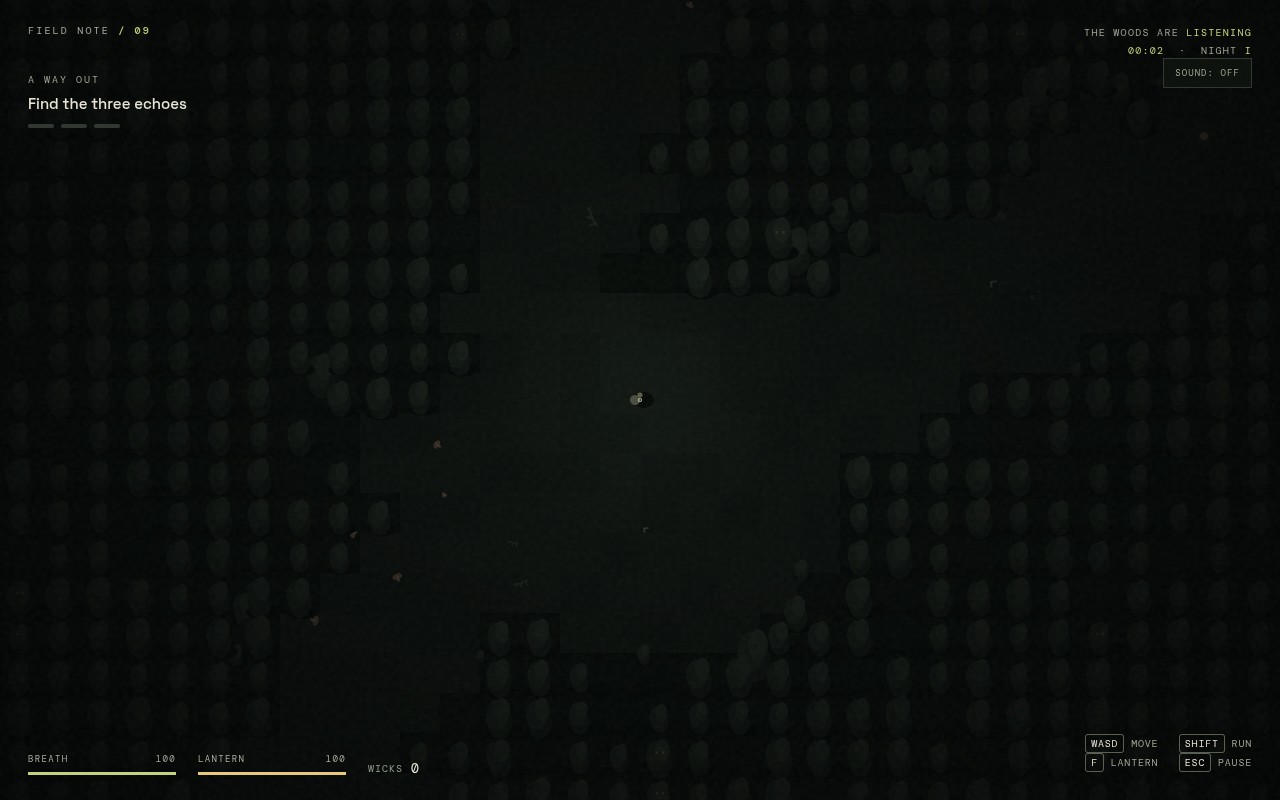
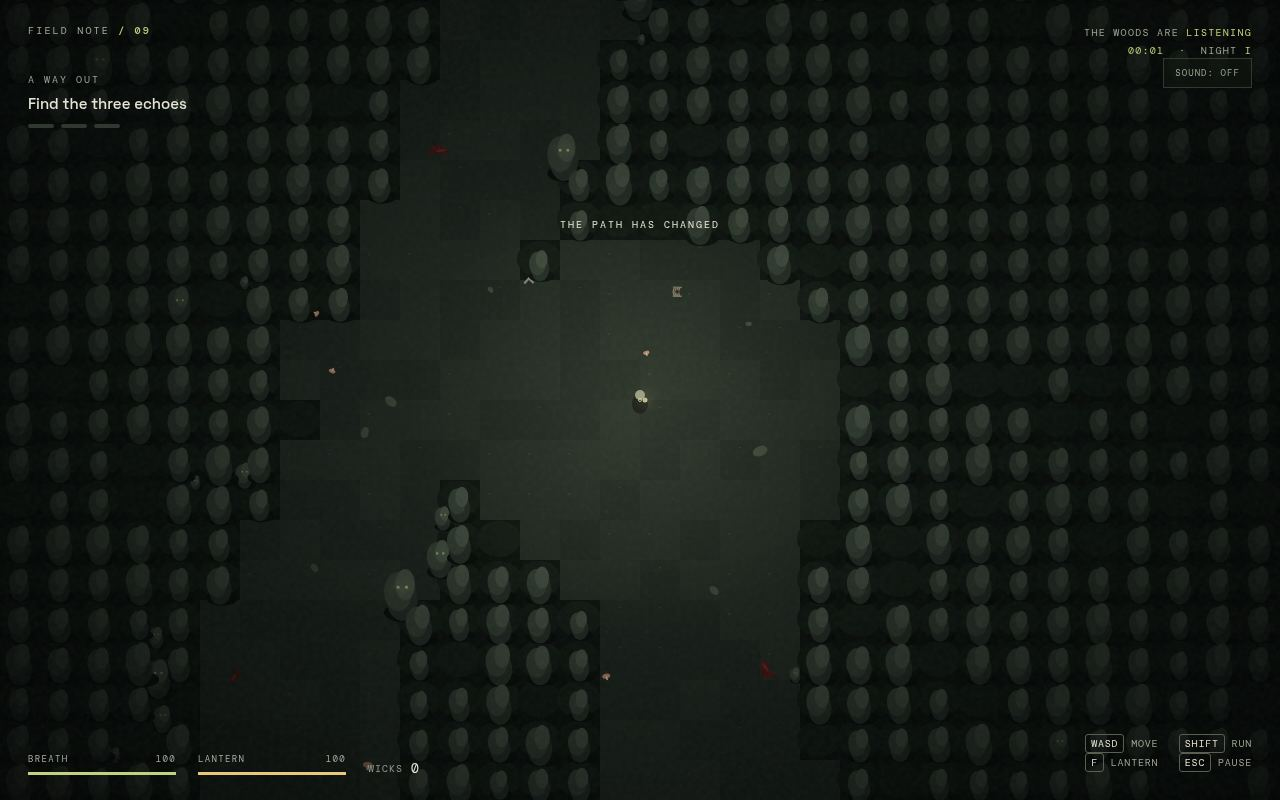
Publish static build for issue #128
Run: 43301707480
Attempt: 1
Generation: 5
Source: 97bf56521b8ea9435b465385cdbbfda4bbc50e95

diff --git a/index.html b/index.html
@@ -18,13 +18,13 @@
 (()=>{'use strict';
 const canvas=document.getElementById('game'),ctx=canvas.getContext('2d');const $=s=>document.querySelector(s);
 const ui={overlay:$('#overlay'),card:$('#card'),start:$('#startBtn'),hud:$('#hud'),pause:$('#pauseLabel'),goal:$('#goalText'),breath:$('#breathBar'),breathNum:$('#breathNum'),battery:$('#batteryBar'),batteryNum:$('#batteryNum'),wicks:$('#wickCount'),clock:$('#clock'),mood:$('#mood'),night:$('#night'),toast:$('#toast'),sound:$('#soundBtn')};
-let W=0,H=0,dpr=1,last=0,mode='menu',seed=0,rng=Math.random,tiles=[],decor=[],relics=[],wicks=[],player={},beast={},gate={},keys={},touchRun=false,lantern=true,elapsed=0,night=1,shake=0,audioCtx=null,ambience=null,hasAudio=false;
+let W=0,H=0,dpr=1,last=0,mode='menu',seed=0,rng=Math.random,tiles=[],decor=[],relics=[],wicks=[],player={},beast={},gate={},keys={},touchRun=false,lantern=true,elapsed=0,night=1,shake=0,nightmare=0,nightmareText='',nextNightmare=18,audioCtx=null,ambience=null,hasAudio=false;
 const TS=40,MW=61,MH=61;function resize(){dpr=Math.min(devicePixelRatio||1,2);W=innerWidth;H=innerHeight;canvas.width=Math.floor(W*dpr);canvas.height=Math.floor(H*dpr);canvas.style.width=W+'px';canvas.style.height=H+'px';ctx.setTransform(dpr,0,0,dpr,0,0)}addEventListener('resize',resize);resize();
 function randomSeed(){seed=Math.random()*1e9|0;rng=(()=>{let a=seed>>>0;return()=>{a+=0x6D2B79F5;let t=a;t=Math.imul(t^t>>>15,t|1);t^=t+Math.imul(t^t>>>7,t|61);return((t^t>>>14)>>>0)/4294967296}})()}const rand=(a,b)=>a+rng()*(b-a),pick=a=>a[rng()*a.length|0],dist=(a,b)=>Math.hypot(a.x-b.x,a.y-b.y);
 function generate(){randomSeed();tiles=Array.from({length:MH},()=>Array(MW).fill(1));decor=[];relics=[];wicks=[];let path=[],x=30,y=30,angle=rand(-Math.PI,Math.PI);for(let i=0;i<1250;i++){path.push([Math.round(x),Math.round(y)]);angle+=(rng()-.5)*.24;x=Math.max(5,Math.min(MW-6,x+Math.cos(angle)*2));y=Math.max(5,Math.min(MH-6,y+Math.sin(angle)*2))}x=15;y=48;angle=-.85;for(let i=0;i<740;i++){path.push([Math.round(x),Math.round(y)]);angle+=(rng()-.5)*.22;x=Math.max(5,Math.min(MW-6,x+Math.cos(angle)*1.7));y=Math.max(5,Math.min(MH-6,y+Math.sin(angle)*1.7))}for(const [px,py] of path)for(let oy=-2;oy<=2;oy++)for(let ox=-2;ox<=2;ox++)if(ox*ox+oy*oy<rand(3.2,6.6)&&tiles[py+oy]?.[px+ox]!==undefined)tiles[py+oy][px+ox]=0;
 const clear=[{x:30,y:30,r:5},{x:51,y:10,r:4},{x:10,y:13,r:4},{x:49,y:51,r:4},{x:9,y:51,r:4}];for(const c of clear)for(let yy=-c.r;yy<=c.r;yy++)for(let xx=-c.r;xx<=c.r;xx++)if(xx*xx+yy*yy<c.r*c.r&&tiles[c.y+yy]?.[c.x+xx]!==undefined)tiles[c.y+yy][c.x+xx]=0;
-for(let yy=1;yy<MH-1;yy++)for(let xx=1;xx<MW-1;xx++)if(tiles[yy][xx]===0&&rng()<.10)decor.push({x:xx*TS+rand(-12,12),y:yy*TS+rand(-12,12),type:pick(['fern','stone','mushroom','bones']),s:rand(.45,1.3),rot:rand(0,7)});
-player={x:30*TS,y:30*TS,r:8,stamina:100,battery:100,health:100,face:0,walk:0,wicks:0,invuln:0};gate={x:9*TS,y:51*TS};const candidates=[];for(let yy=2;yy<MH-2;yy++)for(let xx=2;xx<MW-2;xx++)if(tiles[yy][xx]===0&&Math.hypot(xx-30,yy-30)>12)candidates.push({x:xx*TS+rand(-8,8),y:yy*TS+rand(-8,8)});while(relics.length<3&&candidates.length){let p=candidates.splice(rng()*candidates.length|0,1)[0];if(relics.every(r=>dist(r,p)>220))relics.push({...p,found:false,phase:rand(0,6)})}while(relics.length<3){let q=clear[relics.length+1];relics.push({x:q.x*TS,y:q.y*TS,found:false,phase:0})}for(let i=0;i<11;i++){let p=pick(candidates.length?candidates:[{x:45*TS,y:14*TS}]);wicks.push({x:p.x,y:p.y,taken:false,phase:rand(0,6)})}for(let yy=1;yy<MH-1;yy++)for(let xx=1;xx<MW-1;xx++)if(tiles[yy][xx]===1){let edge=false;for(let oy=-1;oy<=1;oy++)for(let ox=-1;ox<=1;ox++)if(tiles[yy+oy]?.[xx+ox]===0)edge=true;if(edge&&rng()<.18)decor.push({x:xx*TS+rand(-5,5),y:yy*TS+rand(-5,5),type:'eye',s:rand(.55,1.2),rot:0})}beast={x:0,y:0,speed:45,alert:0,phase:rand(0,8),wander:0,tx:0,ty:0};let spawn=relocs(16);beast.x=spawn.x;beast.y=spawn.y;elapsed=0;night=1;lantern=true}
+for(let yy=1;yy<MH-1;yy++)for(let xx=1;xx<MW-1;xx++)if(tiles[yy][xx]===0&&rng()<.10)decor.push({x:xx*TS+rand(-12,12),y:yy*TS+rand(-12,12),type:pick(['fern','stone','mushroom','bones','blood','ribs']),s:rand(.45,1.3),rot:rand(0,7)});
+player={x:30*TS,y:30*TS,r:8,stamina:100,battery:100,health:100,face:0,walk:0,wicks:0,invuln:0};gate={x:9*TS,y:51*TS};const candidates=[];for(let yy=2;yy<MH-2;yy++)for(let xx=2;xx<MW-2;xx++)if(tiles[yy][xx]===0&&Math.hypot(xx-30,yy-30)>12)candidates.push({x:xx*TS+rand(-8,8),y:yy*TS+rand(-8,8)});while(relics.length<3&&candidates.length){let p=candidates.splice(rng()*candidates.length|0,1)[0];if(relics.every(r=>dist(r,p)>220))relics.push({...p,found:false,phase:rand(0,6)})}while(relics.length<3){let q=clear[relics.length+1];relics.push({x:q.x*TS,y:q.y*TS,found:false,phase:0})}for(let i=0;i<11;i++){let p=pick(candidates.length?candidates:[{x:45*TS,y:14*TS}]);wicks.push({x:p.x,y:p.y,taken:false,phase:rand(0,6)})}for(let yy=1;yy<MH-1;yy++)for(let xx=1;xx<MW-1;xx++)if(tiles[yy][xx]===1){let edge=false;for(let oy=-1;oy<=1;oy++)for(let ox=-1;ox<=1;ox++)if(tiles[yy+oy]?.[xx+ox]===0)edge=true;if(edge&&rng()<.18)decor.push({x:xx*TS+rand(-5,5),y:yy*TS+rand(-5,5),type:'eye',s:rand(.55,1.2),rot:0})}beast={x:0,y:0,speed:45,alert:0,phase:rand(0,8),wander:0,tx:0,ty:0};let spawn=relocs(16);beast.x=spawn.x;beast.y=spawn.y;elapsed=0;night=1;lantern=true;nightmare=0;nightmareText='';nextNightmare=rand(16,25)}
 function relocs(d){let a=[];for(let y=1;y<MH-1;y++)for(let x=1;x<MW-1;x++)if(tiles[y][x]===0&&Math.hypot(x-30,y-30)>d)a.push({x:x*TS,y:y*TS});return a.length?pick(a):{x:50*TS,y:50*TS}}
 function blocked(x,y,r=8){for(let yy=Math.floor((y-r)/TS);yy<=Math.floor((y+r)/TS);yy++)for(let xx=Math.floor((x-r)/TS);xx<=Math.floor((x+r)/TS);xx++)if(!tiles[yy]||tiles[yy][xx]!==0){let cx=Math.max(xx*TS,Math.min(x,(xx+1)*TS)),cy=Math.max(yy*TS,Math.min(y,(yy+1)*TS));if(Math.hypot(x-cx,y-cy)<r+1)return true}return false}function move(o,dx,dy,r){if(!blocked(o.x+dx,o.y,r))o.x+=dx;if(!blocked(o.x,o.y+dy,r))o.y+=dy}
 function formatTime(s){return String(Math.floor(s/60)).padStart(2,'0')+':'+String(Math.floor(s%60)).padStart(2,'0')}let toastId;function toast(t){ui.toast.textContent=t;ui.toast.classList.add('show');clearTimeout(toastId);toastId=setTimeout(()=>ui.toast.classList.remove('show'),2100)}
@@ -41,12 +41,12 @@ function drawWorld(){let camX=player.x-W/2,camY=player.y-H/2;ctx.save();ctx.tran
 for(let y=y0;y<y1;y++)for(let x=x0;x<x1;x++){let px=x*TS,py=y*TS;if(tiles[y][x]===0){let n=tileNoise(x,y);ctx.fillStyle=n>.5?'#222b23':'#1d261f';ctx.fillRect(px,py,TS,TS);ctx.fillStyle='#32372a';if(n>.74){ctx.fillRect(px+8,py+13,2,2);ctx.fillRect(px+28,py+29,1,1)}else if(n<.22){ctx.fillRect(px+19,py+7,2,1);ctx.fillRect(px+6,py+31,1,2)}}else{ctx.fillStyle='#0b110d';ctx.fillRect(px,py,TS,TS);ctx.fillStyle=tileNoise(x*5,y*3)>.4?'#121b14':'#101811';ctx.beginPath();ctx.ellipse(px+19,py+19,22,18,0,0,7);ctx.fill()}}
 ctx.save();ctx.translate(gate.x,gate.y);ctx.globalAlpha=relics.every(r=>r.found)?1:.35;ctx.shadowBlur=22;ctx.shadowColor='#d3d394';ctx.strokeStyle='#a9b48d';ctx.lineWidth=3;ctx.beginPath();ctx.moveTo(-14,12);ctx.lineTo(-14,-14);ctx.quadraticCurveTo(0,-29,14,-14);ctx.lineTo(14,12);ctx.stroke();ctx.beginPath();ctx.moveTo(-9,12);ctx.lineTo(-9,-12);ctx.quadraticCurveTo(0,-22,9,-12);ctx.lineTo(9,12);ctx.stroke();ctx.fillStyle='#c1ce8a';ctx.fillRect(-2,-3,4,4);ctx.restore();
 for(const w of wicks)if(!w.taken){ctx.save();ctx.translate(w.x,w.y+Math.sin(elapsed*2+w.phase)*3);ctx.fillStyle='#ead18a';ctx.shadowColor='#f3d880';ctx.shadowBlur=13;ctx.beginPath();ctx.arc(0,0,4,0,7);ctx.fill();ctx.restore()}for(const r of relics)if(!r.found){ctx.save();ctx.translate(r.x,r.y+Math.sin(elapsed*1.5+r.phase)*5);ctx.rotate(Math.sin(elapsed+r.phase)*.08);ctx.fillStyle='#d5dfa1';ctx.shadowColor='#d5eb9a';ctx.shadowBlur=25;ctx.beginPath();ctx.moveTo(0,-11);ctx.lineTo(8,0);ctx.lineTo(0,11);ctx.lineTo(-8,0);ctx.closePath();ctx.fill();ctx.fillStyle='#697653';ctx.beginPath();ctx.arc(0,0,2.4,0,7);ctx.fill();ctx.restore()}
-for(const d of decor){if(d.x<camX-30||d.x>camX+W+30||d.y<camY-30||d.y>camY+H+30)continue;ctx.save();ctx.translate(d.x,d.y);ctx.rotate(d.rot);ctx.scale(d.s,d.s);if(d.type==='eye')drawTree(0,0,d.s,true);else if(d.type==='fern'){ctx.strokeStyle='#526149';ctx.lineWidth=2;ctx.beginPath();ctx.moveTo(-7,4);ctx.quadraticCurveTo(0,-5,9,-6);ctx.moveTo(-5,3);ctx.lineTo(-8,-3);ctx.moveTo(-1,0);ctx.lineTo(-1,-7);ctx.moveTo(4,-3);ctx.lineTo(7,-8);ctx.stroke()}else if(d.type==='mushroom'){ctx.fillStyle='#c58a6b';ctx.beginPath();ctx.ellipse(0,1,5,3,0,0,7);ctx.fill();ctx.fillStyle='#ddd0b0';ctx.fillRect(-1,1,2,5)}else if(d.type==='stone'){ctx.fillStyle='#434a3c';ctx.beginPath();ctx.ellipse(0,2,6,4,.2,0,7);ctx.fill()}else{ctx.strokeStyle='#9b9980';ctx.lineWidth=2;ctx.beginPath();ctx.moveTo(-4,2);ctx.lineTo(1,-2);ctx.lineTo(5,3);ctx.stroke()}ctx.restore()}
+for(const d of decor){if(d.x<camX-30||d.x>camX+W+30||d.y<camY-30||d.y>camY+H+30)continue;ctx.save();ctx.translate(d.x,d.y);ctx.rotate(d.rot);ctx.scale(d.s,d.s);if(d.type==='eye')drawTree(0,0,d.s,true);else if(d.type==='fern'){ctx.strokeStyle='#526149';ctx.lineWidth=2;ctx.beginPath();ctx.moveTo(-7,4);ctx.quadraticCurveTo(0,-5,9,-6);ctx.moveTo(-5,3);ctx.lineTo(-8,-3);ctx.moveTo(-1,0);ctx.lineTo(-1,-7);ctx.moveTo(4,-3);ctx.lineTo(7,-8);ctx.stroke()}else if(d.type==='mushroom'){ctx.fillStyle='#c58a6b';ctx.beginPath();ctx.ellipse(0,1,5,3,0,0,7);ctx.fill();ctx.fillStyle='#ddd0b0';ctx.fillRect(-1,1,2,5)}else if(d.type==='stone'){ctx.fillStyle='#434a3c';ctx.beginPath();ctx.ellipse(0,2,6,4,.2,0,7);ctx.fill()}else if(d.type==='blood'){ctx.fillStyle='#4b1714';ctx.beginPath();ctx.ellipse(0,2,9,4,.2,0,7);ctx.ellipse(7,-2,4,2,-.4,0,7);ctx.fill();ctx.fillStyle='#812b22';ctx.globalAlpha=.72;ctx.beginPath();ctx.ellipse(-2,1,5,1.4,-.2,0,7);ctx.fill();ctx.globalAlpha=1;ctx.strokeStyle='#351311';ctx.lineWidth=1;ctx.beginPath();ctx.moveTo(2,3);ctx.quadraticCurveTo(4,8,7,9);ctx.stroke()}else if(d.type==='ribs'){ctx.strokeStyle='#8b8772';ctx.lineWidth=1.5;ctx.beginPath();ctx.moveTo(-5,-5);ctx.lineTo(-5,5);ctx.moveTo(5,-5);ctx.lineTo(5,5);for(let i=-3;i<=3;i+=2){ctx.moveTo(-5,i);ctx.quadraticCurveTo(0,i+3,5,i)}ctx.stroke();ctx.fillStyle='#4a1714';ctx.beginPath();ctx.arc(0,0,2,0,7);ctx.fill()}else{ctx.strokeStyle='#9b9980';ctx.lineWidth=2;ctx.beginPath();ctx.moveTo(-4,2);ctx.lineTo(1,-2);ctx.lineTo(5,3);ctx.stroke()}ctx.restore()}
 for(let y=y0;y<y1;y++)for(let x=x0;x<x1;x++)if(tiles[y][x]===1&&tileNoise(x,y)>.10)drawTree(x*TS+20,y*TS+26,.77+tileNoise(x+6,y-2)*.36,tileNoise(x*7,y*11)>.94);
-ctx.save();ctx.translate(player.x,player.y);ctx.rotate(player.face);ctx.fillStyle='#090d0b';ctx.beginPath();ctx.ellipse(0,4,8,10,0,0,7);ctx.fill();ctx.fillStyle='#a2a48a';ctx.beginPath();ctx.arc(0,-5,5,0,7);ctx.fill();ctx.fillStyle='#d2c890';ctx.shadowColor='#e1d494';ctx.shadowBlur=lantern&&player.battery>0?13:0;ctx.beginPath();ctx.arc(5,0,2.5,0,7);ctx.fill();ctx.restore();let bd=dist(beast,player),alpha=Math.max(0,1-bd/290);if(alpha>.02){ctx.save();ctx.globalAlpha=alpha*.7;ctx.translate(beast.x,beast.y);ctx.fillStyle='#030605';ctx.beginPath();ctx.ellipse(0,0,13,22,Math.sin(elapsed)*.13,0,7);ctx.fill();ctx.fillStyle='#d0d59a';ctx.shadowColor='#d9ef9a';ctx.shadowBlur=15;ctx.fillRect(-6,-11,3,2);ctx.fillRect(4,-11,3,2);ctx.restore()}ctx.restore();
-let cx=W/2,cy=H/2,radius=lantern&&player.battery>0?Math.max(105,236*(.42+player.battery/175)):115,dark=ctx.createRadialGradient(cx,cy,Math.min(70,radius*.32),cx,cy,Math.max(W,H)*.73);dark.addColorStop(0,lantern?'rgba(2,5,4,.08)':'rgba(2,5,4,.55)');dark.addColorStop(Math.min(.72,radius/(Math.max(W,H)*.73)),lantern?'rgba(2,5,4,.28)':'rgba(2,5,4,.72)');dark.addColorStop(1,'rgba(2,5,4,.96)');ctx.fillStyle=dark;ctx.fillRect(0,0,W,H);if(lantern&&player.battery>0){let glow=ctx.createRadialGradient(cx,cy,5,cx,cy,radius);glow.addColorStop(0,'rgba(206,211,154,.10)');glow.addColorStop(.55,'rgba(175,194,130,.045)');glow.addColorStop(1,'rgba(175,194,130,0)');ctx.fillStyle=glow;ctx.fillRect(cx-radius,cy-radius,radius*2,radius*2)}let d=dist(beast,player);if(d<165){ctx.fillStyle=`rgba(117,31,26,${(165-d)/165*.1})`;ctx.fillRect(0,0,W,H)}}
+ctx.save();ctx.translate(player.x,player.y);ctx.rotate(player.face);ctx.fillStyle='#090d0b';ctx.beginPath();ctx.ellipse(0,4,8,10,0,0,7);ctx.fill();ctx.fillStyle='#a2a48a';ctx.beginPath();ctx.arc(0,-5,5,0,7);ctx.fill();ctx.fillStyle='#d2c890';ctx.shadowColor='#e1d494';ctx.shadowBlur=lantern&&player.battery>0?13:0;ctx.beginPath();ctx.arc(5,0,2.5,0,7);ctx.fill();ctx.restore();let bd=dist(beast,player),alpha=Math.max(0,1-bd/290);if(alpha>.02){ctx.save();ctx.globalAlpha=alpha*.7;ctx.translate(beast.x,beast.y);ctx.fillStyle='#030605';ctx.beginPath();ctx.ellipse(0,0,13,22,Math.sin(elapsed)*.13,0,7);ctx.fill();ctx.strokeStyle='#050706';ctx.lineWidth=3;ctx.beginPath();ctx.moveTo(-8,-8);ctx.lineTo(-16,-17);ctx.lineTo(-12,-19);ctx.moveTo(8,-8);ctx.lineTo(16,-17);ctx.lineTo(12,-19);ctx.moveTo(-7,9);ctx.lineTo(-15,19);ctx.moveTo(7,9);ctx.lineTo(15,19);ctx.stroke();ctx.fillStyle='#d0d59a';ctx.shadowColor='#d9ef9a';ctx.shadowBlur=15;ctx.fillRect(-6,-11,3,2);ctx.fillRect(4,-11,3,2);ctx.shadowBlur=0;ctx.fillStyle='#561a17';ctx.beginPath();ctx.ellipse(0,2,4,8,0,0,7);ctx.fill();ctx.strokeStyle='#8c6b5b';ctx.lineWidth=1;for(let i=-1;i<=1;i++){ctx.beginPath();ctx.moveTo(i*2,-2);ctx.lineTo(i*2,3);ctx.stroke()}ctx.restore()}ctx.restore();
+let cx=W/2,cy=H/2,radius=lantern&&player.battery>0?Math.max(105,236*(.42+player.battery/175)):115,dark=ctx.createRadialGradient(cx,cy,Math.min(70,radius*.32),cx,cy,Math.max(W,H)*.73);dark.addColorStop(0,lantern?'rgba(2,5,4,.08)':'rgba(2,5,4,.55)');dark.addColorStop(Math.min(.72,radius/(Math.max(W,H)*.73)),lantern?'rgba(2,5,4,.28)':'rgba(2,5,4,.72)');dark.addColorStop(1,'rgba(2,5,4,.96)');ctx.fillStyle=dark;ctx.fillRect(0,0,W,H);if(lantern&&player.battery>0){let glow=ctx.createRadialGradient(cx,cy,5,cx,cy,radius);glow.addColorStop(0,'rgba(206,211,154,.10)');glow.addColorStop(.55,'rgba(175,194,130,.045)');glow.addColorStop(1,'rgba(175,194,130,0)');ctx.fillStyle=glow;ctx.fillRect(cx-radius,cy-radius,radius*2,radius*2)}let d=dist(beast,player);if(d<165){ctx.fillStyle=`rgba(117,31,26,${(165-d)/165*.1})`;ctx.fillRect(0,0,W,H)}if(nightmare>0){let flicker=.035+Math.abs(Math.sin(elapsed*17))*.055;let haunt=ctx.createRadialGradient(cx,cy,Math.min(W,H)*.2,cx,cy,Math.max(W,H)*.76);haunt.addColorStop(0,'rgba(75,8,8,0)');haunt.addColorStop(1,`rgba(97,10,12,${flicker*Math.min(1,nightmare)})`);ctx.fillStyle=haunt;ctx.fillRect(0,0,W,H);ctx.save();ctx.globalAlpha=Math.min(1,nightmare)*(.65+.25*Math.sin(elapsed*13));ctx.textAlign='center';ctx.textBaseline='middle';ctx.font='500 11px DM Mono, monospace';ctx.letterSpacing='3px';ctx.shadowColor='#9b211b';ctx.shadowBlur=18;ctx.fillStyle='#c9a69a';ctx.fillText(nightmareText,cx,cy+Math.min(H*.22,130));ctx.restore()}}
 
-function update(dt){if(mode!=='playing')return;elapsed+=dt;player.invuln=Math.max(0,player.invuln-dt);const left=keys.a||keys.arrowleft,right=keys.d||keys.arrowright,up=keys.w||keys.arrowup,down=keys.s||keys.arrowdown;let vx=(right?1:0)-(left?1:0),vy=(down?1:0)-(up?1:0),moving=!!(vx||vy);if(moving){let m=Math.hypot(vx,vy);vx/=m;vy/=m;player.face=Math.atan2(vy,vx);player.walk+=dt*(touchRun||keys.shift?12:7)}let sprint=moving&&(touchRun||keys.shift)&&player.stamina>1;let speed=sprint?145:83;if(sprint)player.stamina=Math.max(0,player.stamina-dt*23);else player.stamina=Math.min(100,player.stamina+dt*(moving?8:16));move(player,vx*speed*dt,vy*speed*dt,player.r);
+function update(dt){if(mode!=='playing')return;elapsed+=dt;nightmare=Math.max(0,nightmare-dt);if(elapsed>nextNightmare){nextNightmare=elapsed+rand(22,38);if(dist(beast,player)<430||player.health<70){nightmare=rand(2,4);nightmareText=pick(['DON’T LOOK BACK','IT IS WEARING YOUR SHADOW','THE TREES HAVE TEETH','YOU WERE HERE BEFORE','SOMETHING IS BREATHING']);shake=Math.max(shake,2)}}player.invuln=Math.max(0,player.invuln-dt);const left=keys.a||keys.arrowleft,right=keys.d||keys.arrowright,up=keys.w||keys.arrowup,down=keys.s||keys.arrowdown;let vx=(right?1:0)-(left?1:0),vy=(down?1:0)-(up?1:0),moving=!!(vx||vy);if(moving){let m=Math.hypot(vx,vy);vx/=m;vy/=m;player.face=Math.atan2(vy,vx);player.walk+=dt*(touchRun||keys.shift?12:7)}let sprint=moving&&(touchRun||keys.shift)&&player.stamina>1;let speed=sprint?145:83;if(sprint)player.stamina=Math.max(0,player.stamina-dt*23);else player.stamina=Math.min(100,player.stamina+dt*(moving?8:16));move(player,vx*speed*dt,vy*speed*dt,player.r);
 if(lantern&&player.battery>0)player.battery=Math.max(0,player.battery-dt*(sprint?.39:.24));if(player.battery===0&&lantern){lantern=false;toast('THE LANTERN WENT OUT')}
 // Noise is a real choice: running is faster but the listener can hear it.
 let noise=sprint?1:.13;beast.alert=Math.max(beast.alert*.995,Math.max(0,1-dist(beast,player)/(sprint?920:340))*noise);let bd=dist(beast,player);let hunting=bd<480||beast.alert>.12;if(hunting){beast.tx=player.x;beast.ty=player.y;beast.wander=0}else{beast.wander-=dt;if(beast.wander<=0){beast.wander=rand(1,3);beast.tx=beast.x+rand(-220,220);beast.ty=beast.y+rand(-220,220)}}
